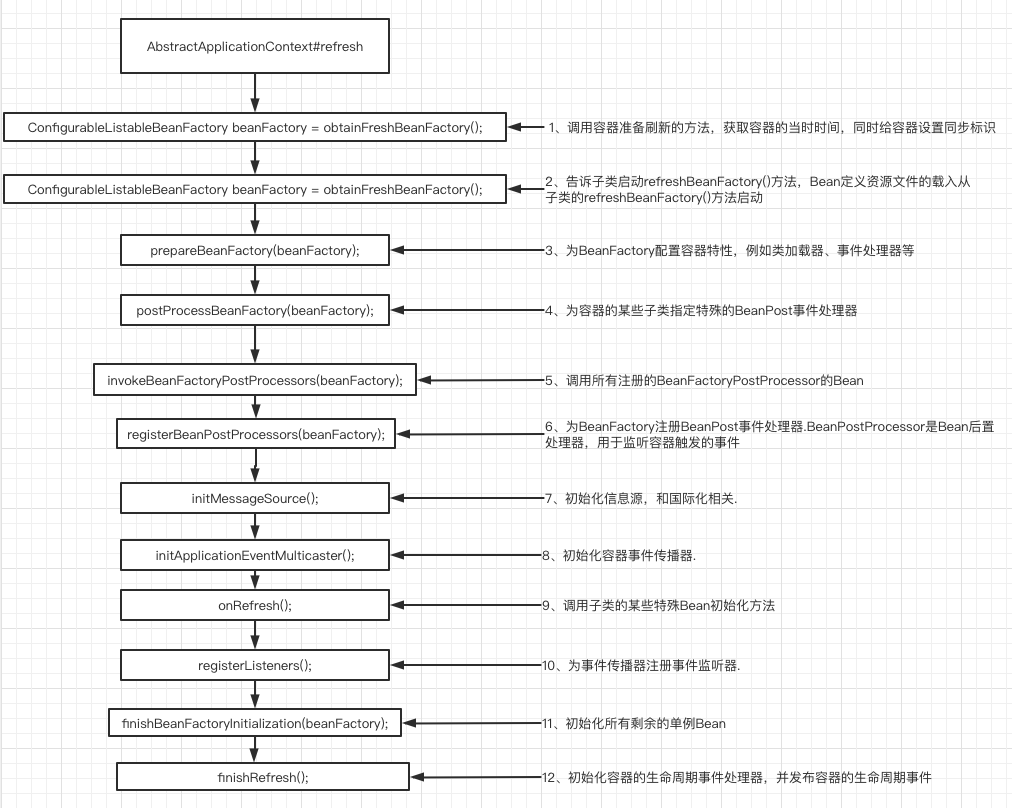
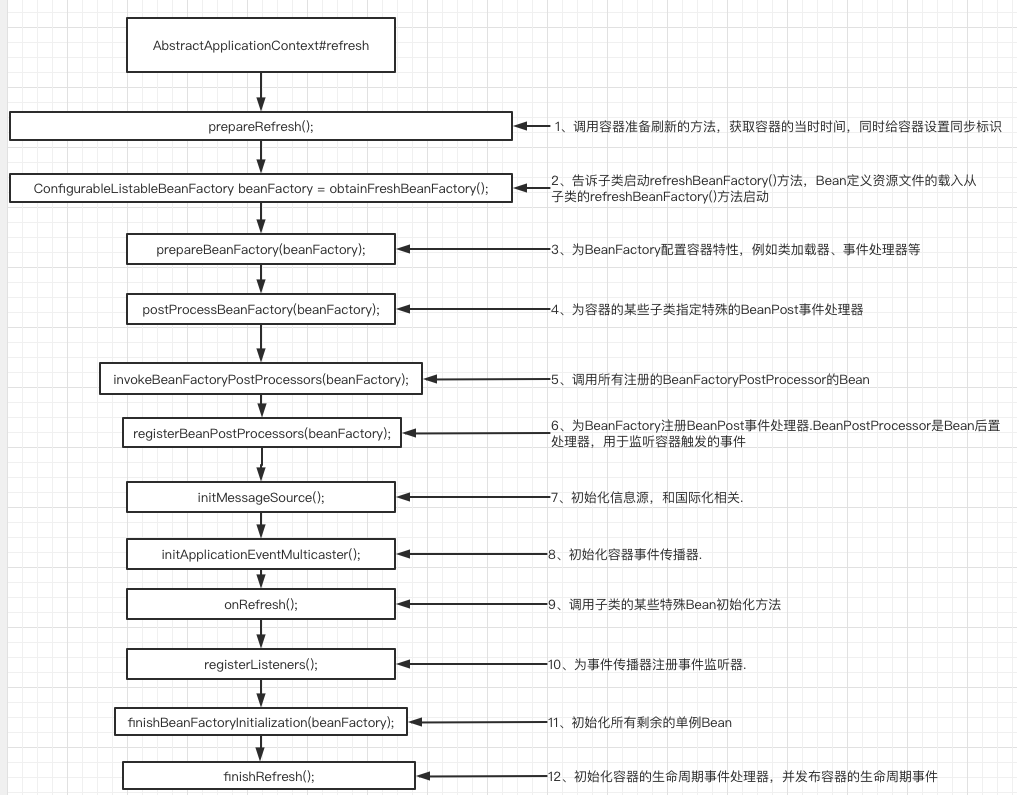
拓展点

diff --git a/02-spring-framework-documentation/080-Spring拓展点/033-拓展点-prepareBeanFactory-注册依赖.md b/02-spring-framework-documentation/080-Spring拓展点/033-拓展点-prepareBeanFactory-注册依赖.md
@@ -12,17 +12,5 @@ beanFactory.registerResolvableDependency(ApplicationContext.class, this);
 
 当注册了依赖解析后，例如当注册了对BeanFactory.class的解析依赖后，当bean的属性注入的时候，一旦检测到属性为BeanFactory类型便会将beanFactory的实例注入进去。
 
-6.6.1　激活注册的BeanFactoryPostProcessor
-正式开始介绍之前我们先了解下　BeanFactoryPostProcessor的用法。
-BeanFactoryPostProcessor接口跟BeanPostProcessor类似，可以对bean的定义（配置元数据）进行处理。也就是说，Spring IoC容器允许BeanFactoryPostProcessor在容器实际实例化任何其他的bean之前读取配置元数据，并有可能修改它。如果你愿意，你可以配置多个BeanFactoryPostProcessor。你还能通过设置“order”属性来控制BeanFactoryPostProcessor的执行次序（仅当BeanFactoryPostProcessor实现了Ordered接口时你才可以设置此属性，因此在实现BeanFactoryPostProcessor时，就应当考虑实现Ordered接口）。请参考BeanFactoryPostProcessor和Ordered接口的JavaDoc以获取更详细的信息。
-如果你想改变实际的bean实例（例如从配置元数据创建的对象），那么你最好使用BeanPostProcessor。同样地，BeanFactoryPostProcessor的作用域范围是容器级的。它只和你所使用的容器有关。如果你在容器中定义一个BeanFactoryPostProcessor，它仅仅对此容器中的bean进行后置处理。BeanFactoryPostProcessor不会对定义在另一个容器中的bean进行后置处理，即使这两个容器都是在同一层次上。在Spring中存在对于BeanFactoryPostProcessor的典型应用，比如PropertyPlaceholderConfigurer。
-1．BeanFactoryPostProcessor的典型应用：PropertyPlaceholderConfigurer
-有时候，阅读Spring的Bean描述文件时，你也许会遇到类似如下的一些配置：
-
-```xml
-<bean id="message" class="distConfig.HelloMessage">
-    <property name="mes">
-```
-
 
 

diff --git a/02-spring-framework-documentation/080-Spring拓展点/010-第一步-prepareRefresh-环境准备.md b/02-spring-framework-documentation/080-Spring拓展点/010-第一步-prepareRefresh-环境准备.md
@@ -1,8 +1,8 @@
-# 拓展点-环境准备
+# 010-第一步-prepareRefresh-环境准备
 
 ![image-20201007151953236](../../assets/image-20201007151953236.png)
 
-####  [refresh](README.md) 的第一步
+
 
 AbstractApplicationContext#refresh()
 
@@ -61,8 +61,10 @@ public class MyClassPathXmlApplicationContext extends ClassPathXmlApplicationCon
  				//添加验证要求
      		getEnvironment().setRequiredProperties("VAR");
  			}
-}我们自定义了继承自ClassPathXmlApplicationContext的MyClassPathXmlApplicationContext，并重写了initPropertySources方法，在方法中添加了我们的个性化需求，那么在验证的时候也就是程序走到getEnvironment().validateRequiredProperties()代码的时候，如果系统并没有检测到对应VAR的环境变量，那么将抛出异常。当然我们还需要在使用的时候替换掉原有的ClassPathXmlApplicationContext：
+}
 ```
+我们自定义了继承自ClassPathXmlApplicationContext的MyClassPathXmlApplicationContext，并重写了initPropertySources方法，在方法中添加了我们的个性化需求，那么在验证的时候也就是程序走到getEnvironment().validateRequiredProperties()代码的时候，如果系统并没有检测到对应VAR的环境变量，那么将抛出异常。当然我们还需要在使用的时候替换掉原有的ClassPathXmlApplicationContext：
+
 ```java
 public static void main(String[] args) {
          ApplicationContext bf = new MyClassPathXmlApplicationContext ("test/customtag/ test.xml"); 

diff --git a/02-spring-framework-documentation/080-Spring拓展点/README.md b/02-spring-framework-documentation/080-Spring拓展点/README.md
@@ -168,17 +168,19 @@ AbstractApplicationContext#refresh()
 
 在某种情况下项目的使用需要读取某些系统变量，而这个变量的设置很可能会影响着系统的正确性，那么ClassPathXmlApplicationContext为我们提供的这个准备函数就显得非常必要，它可以在Spring启动的时候提前对必需的变量进行存在性验证
 
- [010-拓展点-环境准备.md](010-拓展点-环境准备.md) 
+ [010-第一步-prepareRefresh-环境准备.md](010-第一步-prepareRefresh-环境准备.md) 
 
 ## 初始化BeanFactory,并进行XML文件读取
 
 之前有提到ClassPathXmlApplicationContext包含着BeanFactory所提供的一切特征，那么在这一步骤中将会复用BeanFactory中的配置文件读取解析及其他功能，这一步之后，ClassPathXmlApplicationContext实际上就已经包含了BeanFactory所提供的功能，也就是可以进行bean的提取等基础操作了。
 
- [020-拓展点-加载BeanFactory.md](020-拓展点-加载BeanFactory.md) 
+ [020-第二步-obtainFreshBeanFactory-加载BeanFactory.md](020-第二步-obtainFreshBeanFactory-加载BeanFactory.md) 
 
 ## 对BeanFactory进行各种功能填充
 
 @Qualifier与@Autowired应该是大家非常熟悉的注解，那么这两个注解正是在这一步骤中增加的支持。
+
+ [030-第三步-prepareBeanFactory-填充容器属性.md](030-第三步-prepareBeanFactory-填充容器属性.md) 
 
 ## 子类覆盖方法做额外的处理
 

diff --git a/02-spring-framework-documentation/080-Spring拓展点/020-第二步-obtainFreshBeanFactory-加载BeanFactory.md b/02-spring-framework-documentation/080-Spring拓展点/020-第二步-obtainFreshBeanFactory-加载BeanFactory.md
@@ -1,4 +1,4 @@
-# 拓展点-加载BeanFactory
+# 第二步-obtainFreshBeanFactory-加载BeanFactory
 
 ![image-20201007151953236](../../assets/image-20201007151953236.png)
 
@@ -127,8 +127,6 @@ public Object getSuggestedValue(DependencyDescriptor descriptor) {
 ```
 
 ## 定制加载BeanDefinition的逻辑
-
- [010-拓展点-环境准备.md](010-拓展点-环境准备.md) 
 
 在第一步中提到了将ClassPathXmlApplicationContext与XmlBeanFactory创建的对比，在实现配置文件的加载功能中除了我们在第一步中已经初始化的DefaultListableBeanFactory外，还需要XmlBeanDefinitionReader来读取XML，那么在这个步骤中首先要做的就是初始化XmlBeanDefinitionReader。
 
